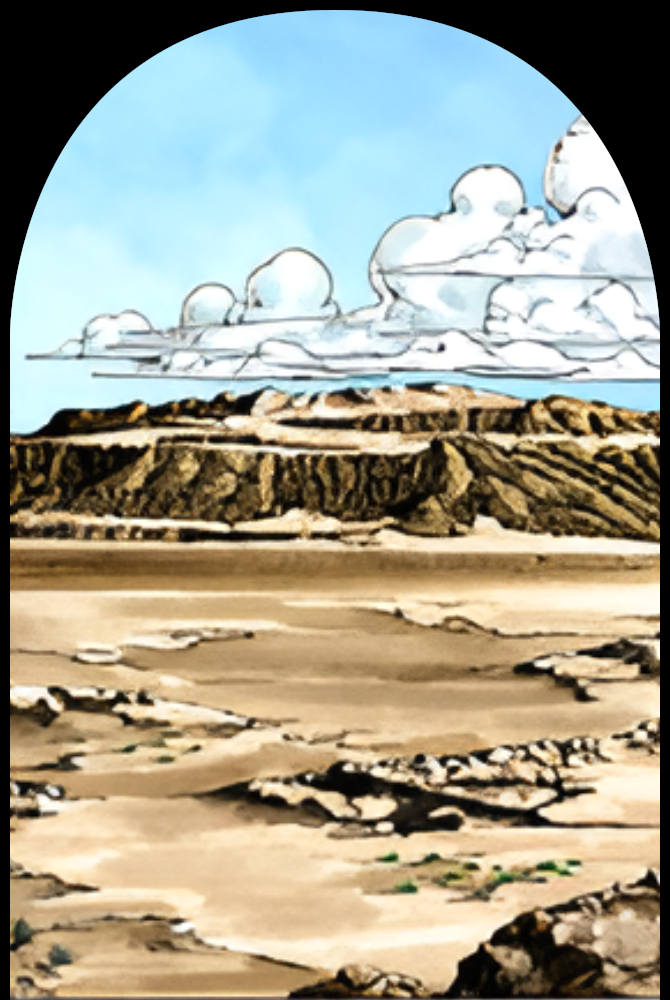
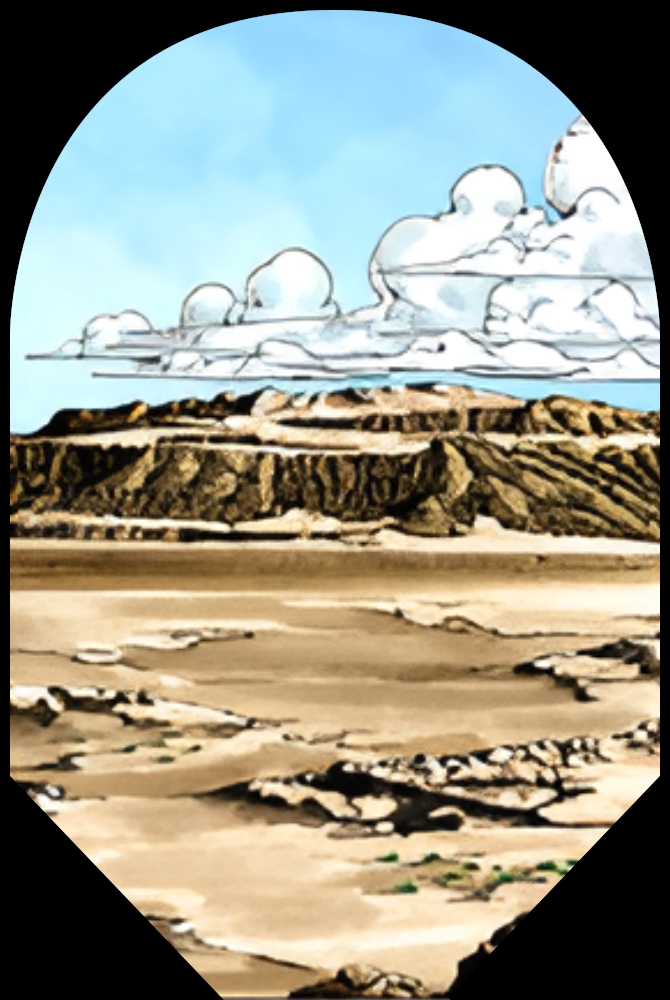
fons

Changed region(s): [[0.0, 0.775, 0.3284, 1.0], [0.6567, 0.775, 0.9851, 1.0]]

diff --git a/Handout para editar manualmente/Handout04_Solution/Source/ModuleGame.cpp b/Handout para editar manualmente/Handout04_Solution/Source/ModuleGame.cpp
@@ -249,7 +249,10 @@ update_status ModuleGame::Update()
 
 
 	// All draw functions ------------------------------------------------------
+	ClearBackground(BLACK);
+	DrawRectangle(0, 0, 1000, 1000, BLACK);
 	DrawTexture(rick, 0, 0, WHITE);
+	
 
 	for (PhysicEntity* entity : entities)
 	{

diff --git a/Handout para editar manualmente/Handout04_Solution/Source/Globals.h b/Handout para editar manualmente/Handout04_Solution/Source/Globals.h
@@ -38,4 +38,4 @@ enum update_status
 #define WIN_BORDERLESS		false
 #define WIN_FULLSCREEN_DESKTOP false
 #define VSYNC				true
-#define TITLE "Physics 2D Playground"
+#define TITLE "Spinball Run"
